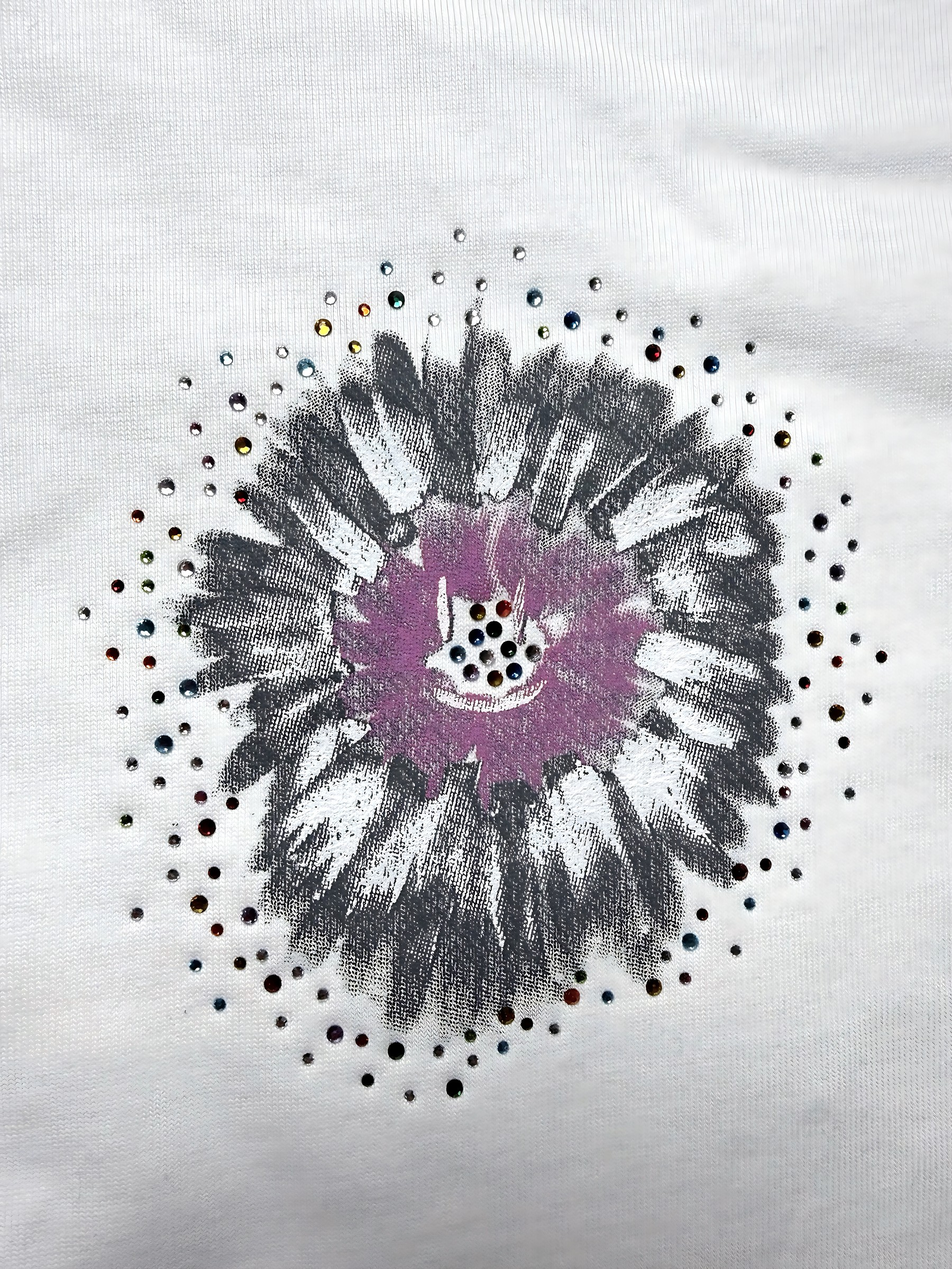
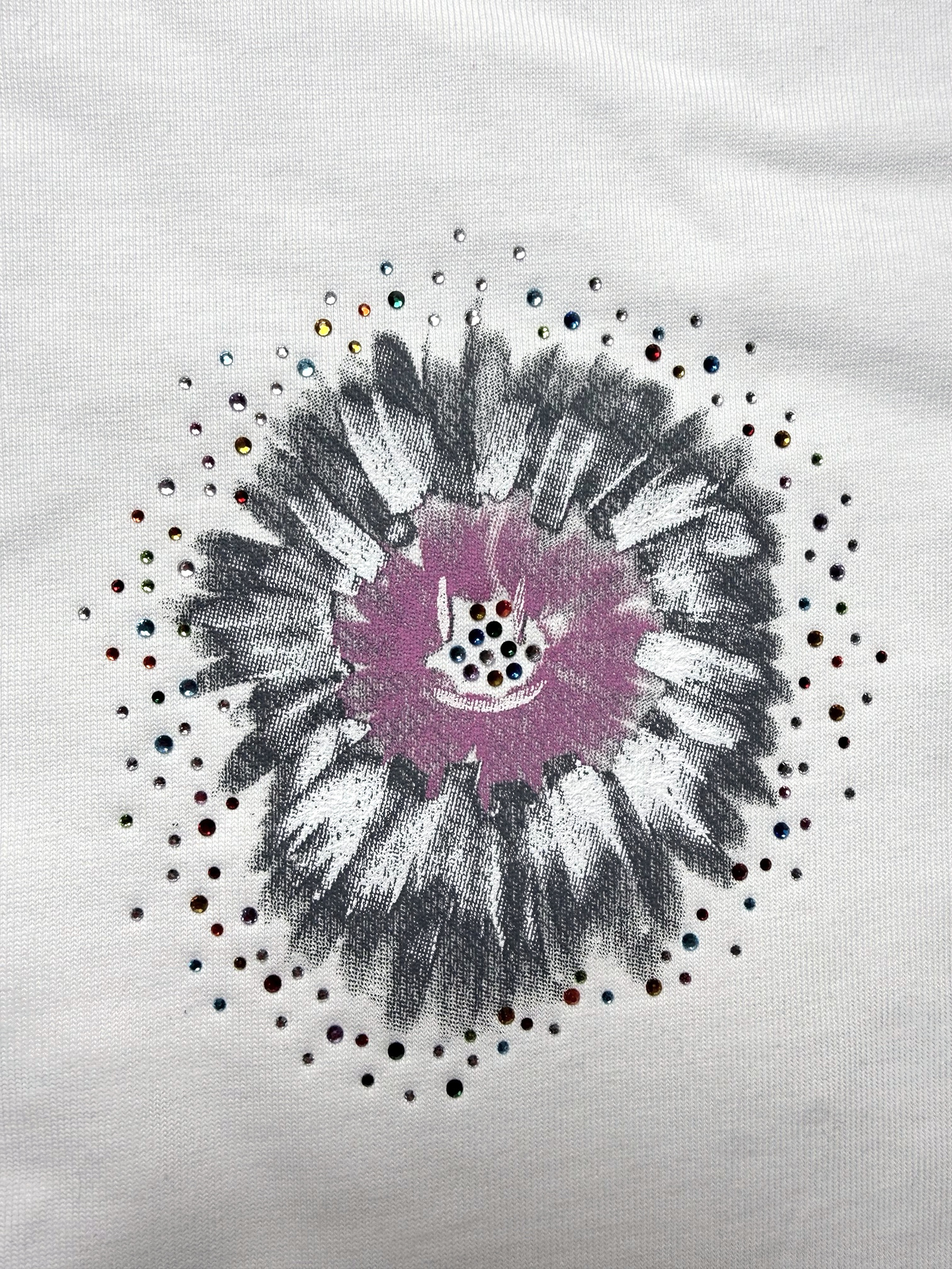
Flor blanco: detalles con pedrería a color y fotos con modelo; Promos: polo sin vestir; VER 86
Claude-Session: https://claude.ai/code/session_01M565qPfcAdMyhhBySsLorX

diff --git a/index.html b/index.html
@@ -783,7 +783,7 @@ let VARS = [];
 const slug = t => t.toLowerCase().normalize("NFD").replace(/[\u0300-\u036f]/g,"").replace(/[^a-z0-9]+/g,"-");
 const vid = v => v.d.id;
 const hashProd = (d,c) => "#producto-"+d.id+(d.colores.length>1 && c && c!==d.colores[0] ? "-"+slug(c) : "");
-const VER = "84";
+const VER = "86";
 const cb = p => p + (p.includes("?")?"&":"?") + "v=" + VER;
 const hashSec = () => SEC==="polos" ? "#polos" : SEC==="dvd" ? "#dvd" : "";
 const COMUN = 150;
@@ -793,7 +793,7 @@ function stockChip(d,c){ const t=stockTotal(d,c); if(t===null) return ""; return
 const compTxt = d => d.g ? `${d.g>COMUN?"+":""}${Math.round((d.g/COMUN-1)*100)}% más que una camiseta común (${COMUN} g)` : "";
 const notaDe = (d,c) => (d.notas && d.notas[c]) || "";
 const detsDe = (d,c) => Array.isArray(d.detalles) ? d.detalles : ((d.detalles && d.detalles[c]) || []);
-const MODELO = {"flor":{"Negro":[{"src":"fotos/modelo/flor-negro-frente.jpg","txt":"Con modelo, de frente"},{"src":"fotos/modelo/flor-negro-espalda.jpg","txt":"Con modelo, de espalda"}]},"cruces":{"Negro":[{"src":"fotos/modelo/cruces-negro-frente.jpg","txt":"Con modelo, de frente"},{"src":"fotos/modelo/cruces-negro-espalda.jpg","txt":"Con modelo, de espalda"}],"Blanco":[{"src":"fotos/modelo/cruces-blanco-frente.jpg","txt":"Con modelo, de frente"},{"src":"fotos/modelo/cruces-blanco-espalda.jpg","txt":"Con modelo, de espalda"}],"Fucsia":[{"src":"fotos/modelo/cruces-fucsia-frente.jpg","txt":"Con modelo, de frente"},{"src":"fotos/modelo/cruces-fucsia-espalda.jpg","txt":"Con modelo, de espalda"}]},"herradura":{"Negro":[{"src":"fotos/modelo/herradura-negro-frente.jpg","txt":"Con modelo, de frente"},{"src":"fotos/modelo/herradura-negro-espalda.jpg","txt":"Con modelo, de espalda"}],"Blanco":[{"src":"fotos/modelo/herradura-blanco-frente.jpg","txt":"Con modelo, de frente"},{"src":"fotos/modelo/herradura-blanco-espalda.jpg","txt":"Con modelo, de espalda"}]},"desenfoque":{"Negro":[{"src":"fotos/modelo/desenfoque-negro-frente.jpg","txt":"Con modelo, de frente"},{"src":"fotos/modelo/desenfoque-negro-espalda.jpg","txt":"Con modelo, de espalda"}],"Blanco":[{"src":"fotos/modelo/desenfoque-blanco-frente.jpg","txt":"Con modelo, de frente"},{"src":"fotos/modelo/desenfoque-blanco-espalda.jpg","txt":"Con modelo, de espalda"}]},"relieve":{"Negro":[{"src":"fotos/modelo/relieve-negro-frente.jpg","txt":"Con modelo, de frente"},{"src":"fotos/modelo/relieve-negro-espalda.jpg","txt":"Con modelo, de espalda"}],"Blanco":[{"src":"fotos/modelo/relieve-blanco-frente.jpg","txt":"Con modelo, de frente"},{"src":"fotos/modelo/relieve-blanco-espalda.jpg","txt":"Con modelo, de espalda"}]},"erosion":{"Negro":[{"src":"fotos/modelo/erosion-negro-frente.jpg","txt":"Con modelo, de frente"},{"src":"fotos/modelo/erosion-negro-espalda.jpg","txt":"Con modelo, de espalda"}],"Plomo":[{"src":"fotos/modelo/erosion-plomo-frente.jpg","txt":"Con modelo, de frente"},{"src":"fotos/modelo/erosion-plomo-espalda.jpg","txt":"Con modelo, de espalda"}]},"menos-mas":{"Negro":[{"src":"fotos/modelo/menosmas-negro-frente.jpg","txt":"Con modelo, de frente"},{"src":"fotos/modelo/menosmas-negro-espalda.jpg","txt":"Con modelo, de espalda"}],"Rosado":[{"src":"fotos/modelo/menosmas-rosado-frente.jpg","txt":"Con modelo, de frente"},{"src":"fotos/modelo/menosmas-rosado-espalda.jpg","txt":"Con modelo, de espalda"}]},"club":{"Negro":[{"src":"fotos/modelo/club-negro-frente.jpg","txt":"Con modelo, de frente"},{"src":"fotos/modelo/club-negro-espalda.jpg","txt":"Con modelo, de espalda"}],"Blanco":[{"src":"fotos/modelo/club-blanco-frente.jpg","txt":"Con modelo, de frente"},{"src":"fotos/modelo/club-blanco-espalda.jpg","txt":"Con modelo, de espalda"}]},"polo-crema":{"Crema":[{"src":"fotos/modelo/polo-crema-frente.jpg","txt":"Con modelo, de frente"},{"src":"fotos/modelo/polo-crema-tres-cuartos.jpg","txt":"Con modelo, tres cuartos"},{"src":"fotos/modelo/polo-crema-perfil.jpg","txt":"Con modelo, de perfil"},{"src":"fotos/modelo/polo-crema-espalda.jpg","txt":"Con modelo, de espalda"}]},"polo-plomo":{"Plomo":[{"src":"fotos/modelo/polo-plomo-frente.jpg","txt":"Con modelo, de frente"},{"src":"fotos/modelo/polo-plomo-tres-cuartos.jpg","txt":"Con modelo, tres cuartos"},{"src":"fotos/modelo/polo-plomo-perfil.jpg","txt":"Con modelo, de perfil"},{"src":"fotos/modelo/polo-plomo-espalda.jpg","txt":"Con modelo, de espalda"}]}};
+const MODELO = {"flor":{"Negro":[{"src":"fotos/modelo/flor-negro-frente.jpg","txt":"Con modelo, de frente"},{"src":"fotos/modelo/flor-negro-espalda.jpg","txt":"Con modelo, de espalda"}],"Blanco":[{"src":"fotos/modelo/flor-blanco-frente.jpg","txt":"Con modelo, de frente"},{"src":"fotos/modelo/flor-blanco-espalda.jpg","txt":"Con modelo, de espalda"}]},"cruces":{"Negro":[{"src":"fotos/modelo/cruces-negro-frente.jpg","txt":"Con modelo, de frente"},{"src":"fotos/modelo/cruces-negro-espalda.jpg","txt":"Con modelo, de espalda"}],"Blanco":[{"src":"fotos/modelo/cruces-blanco-frente.jpg","txt":"Con modelo, de frente"},{"src":"fotos/modelo/cruces-blanco-espalda.jpg","txt":"Con modelo, de espalda"}],"Fucsia":[{"src":"fotos/modelo/cruces-fucsia-frente.jpg","txt":"Con modelo, de frente"},{"src":"fotos/modelo/cruces-fucsia-espalda.jpg","txt":"Con modelo, de espalda"}]},"herradura":{"Negro":[{"src":"fotos/modelo/herradura-negro-frente.jpg","txt":"Con modelo, de frente"},{"src":"fotos/modelo/herradura-negro-espalda.jpg","txt":"Con modelo, de espalda"}],"Blanco":[{"src":"fotos/modelo/herradura-blanco-frente.jpg","txt":"Con modelo, de frente"},{"src":"fotos/modelo/herradura-blanco-espalda.jpg","txt":"Con modelo, de espalda"}]},"desenfoque":{"Negro":[{"src":"fotos/modelo/desenfoque-negro-frente.jpg","txt":"Con modelo, de frente"},{"src":"fotos/modelo/desenfoque-negro-espalda.jpg","txt":"Con modelo, de espalda"}],"Blanco":[{"src":"fotos/modelo/desenfoque-blanco-frente.jpg","txt":"Con modelo, de frente"},{"src":"fotos/modelo/desenfoque-blanco-espalda.jpg","txt":"Con modelo, de espalda"}]},"relieve":{"Negro":[{"src":"fotos/modelo/relieve-negro-frente.jpg","txt":"Con modelo, de frente"},{"src":"fotos/modelo/relieve-negro-espalda.jpg","txt":"Con modelo, de espalda"}],"Blanco":[{"src":"fotos/modelo/relieve-blanco-frente.jpg","txt":"Con modelo, de frente"},{"src":"fotos/modelo/relieve-blanco-espalda.jpg","txt":"Con modelo, de espalda"}]},"erosion":{"Negro":[{"src":"fotos/modelo/erosion-negro-frente.jpg","txt":"Con modelo, de frente"},{"src":"fotos/modelo/erosion-negro-espalda.jpg","txt":"Con modelo, de espalda"}],"Plomo":[{"src":"fotos/modelo/erosion-plomo-frente.jpg","txt":"Con modelo, de frente"},{"src":"fotos/modelo/erosion-plomo-espalda.jpg","txt":"Con modelo, de espalda"}]},"menos-mas":{"Negro":[{"src":"fotos/modelo/menosmas-negro-frente.jpg","txt":"Con modelo, de frente"},{"src":"fotos/modelo/menosmas-negro-espalda.jpg","txt":"Con modelo, de espalda"}],"Rosado":[{"src":"fotos/modelo/menosmas-rosado-frente.jpg","txt":"Con modelo, de frente"},{"src":"fotos/modelo/menosmas-rosado-espalda.jpg","txt":"Con modelo, de espalda"}]},"club":{"Negro":[{"src":"fotos/modelo/club-negro-frente.jpg","txt":"Con modelo, de frente"},{"src":"fotos/modelo/club-negro-espalda.jpg","txt":"Con modelo, de espalda"}],"Blanco":[{"src":"fotos/modelo/club-blanco-frente.jpg","txt":"Con modelo, de frente"},{"src":"fotos/modelo/club-blanco-espalda.jpg","txt":"Con modelo, de espalda"}]},"polo-crema":{"Crema":[{"src":"fotos/modelo/polo-crema-frente.jpg","txt":"Con modelo, de frente"},{"src":"fotos/modelo/polo-crema-tres-cuartos.jpg","txt":"Con modelo, tres cuartos"},{"src":"fotos/modelo/polo-crema-perfil.jpg","txt":"Con modelo, de perfil"},{"src":"fotos/modelo/polo-crema-espalda.jpg","txt":"Con modelo, de espalda"}]},"polo-plomo":{"Plomo":[{"src":"fotos/modelo/polo-plomo-frente.jpg","txt":"Con modelo, de frente"},{"src":"fotos/modelo/polo-plomo-tres-cuartos.jpg","txt":"Con modelo, tres cuartos"},{"src":"fotos/modelo/polo-plomo-perfil.jpg","txt":"Con modelo, de perfil"},{"src":"fotos/modelo/polo-plomo-espalda.jpg","txt":"Con modelo, de espalda"}]}};
 const modsDe = (d,c) => (MODELO[d.id] && MODELO[d.id][c]) || [];
 const lstDe = (d,c,m) => m==="mod" ? modsDe(d,c) : detsDe(d,c);
 function construirVars(){ VARS = DISENOS.map(d=>({d,color:d.colores[0]})); }
